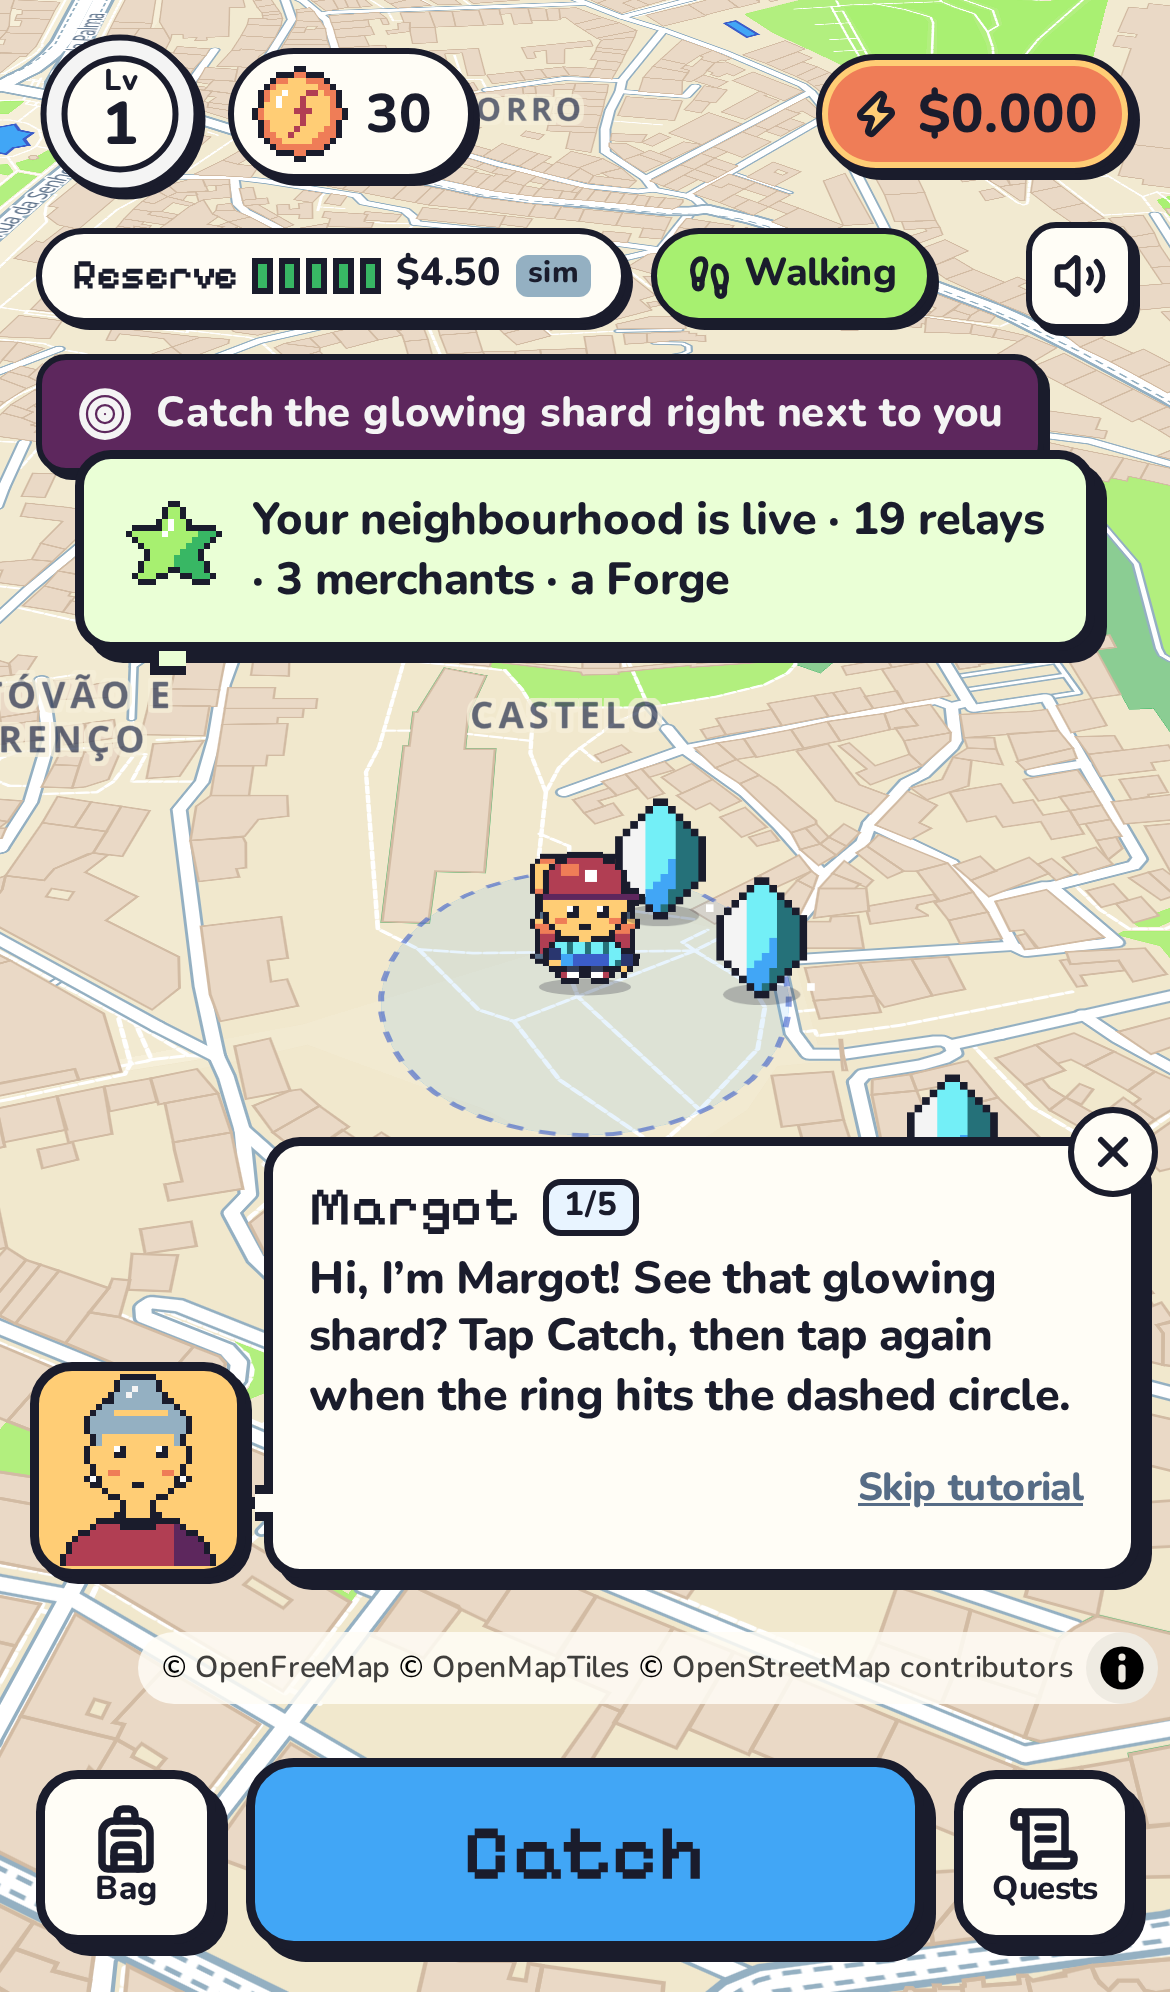
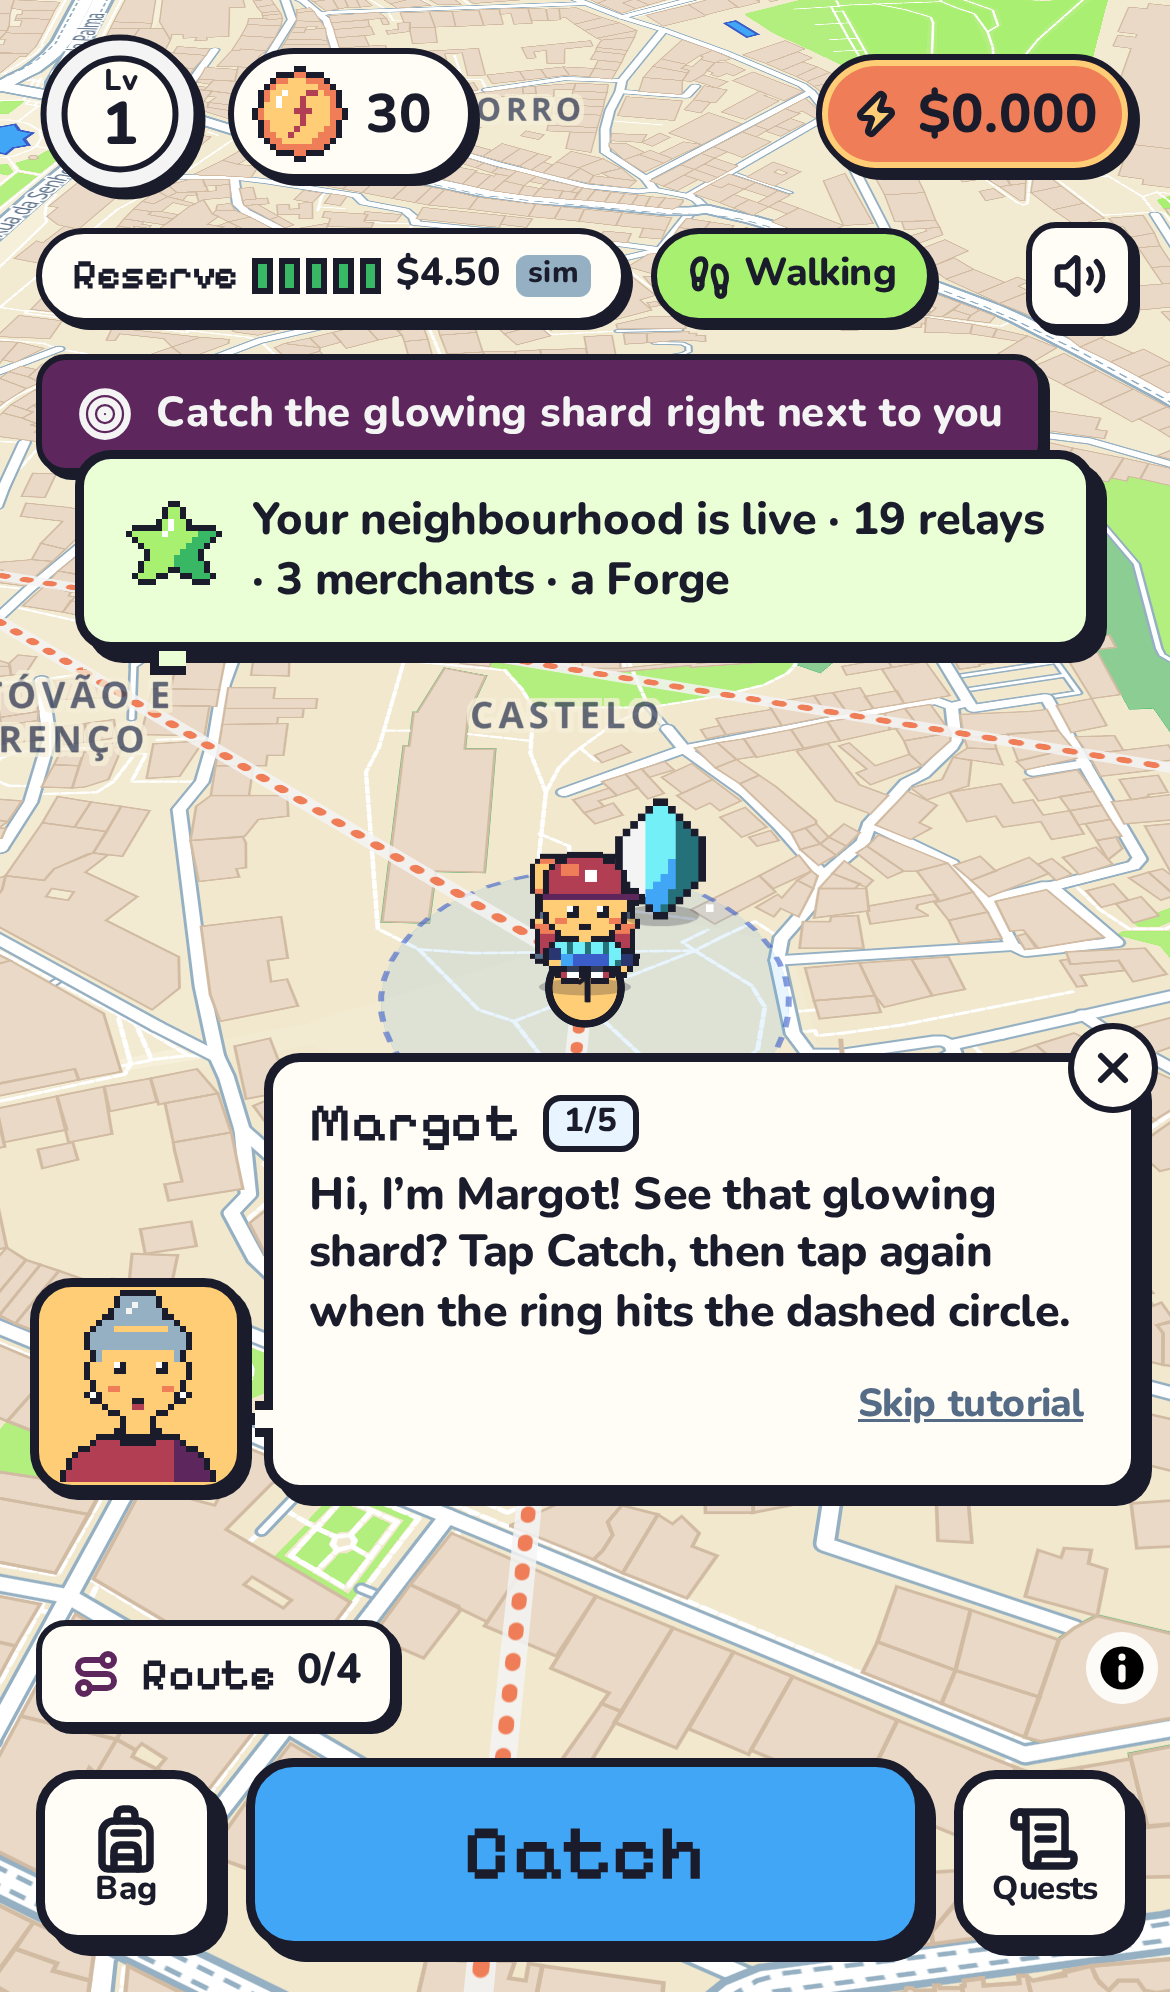
Vérification finale : 211 unitaires, e2e 28/28, captures à jour, vidéo dans le README, PROGRESS

diff --git a/Docs/PROGRESS.md b/Docs/PROGRESS.md
@@ -41,6 +41,19 @@ Mettre à jour à la fin de chaque bloc de travail. Le plus récent en haut.
   en fond tant que le quartier est frais ; une r7 en bordure de Paris compte comme « Paris » même si sa partie hors Paris est vide.
 - **Prochaine étape** : déploiement HTTPS (GPS réel), tester un vrai quartier hors Paris au téléphone.
 
+## 2026-11-07 (soir) — « Banger pass » : jouer partout, carte vivante, marchandage, juice, vidéo, soumission prête
+- **Contexte** : le propriétaire a testé (« pas mal »), veut un jeu « banger », **track games uniquement**, et n'avoir plus qu'à soumettre.
+- **Fait** (4 chantiers en parallèle + intégration + revue sécurité + playtest « juge ») :
+  jouer partout en vrai GPS (régions OSM/Overpass générées autour du joueur, repli procédural en 8 s puis remplacement par les vrais
+  lieux si la région est encore vierge) ; **Remote Scout** (pigeon, batterie serveur) qui remplace Demo Walk et explique la marche réelle ;
+  carte vivante (marcheurs, bulles des marchands, événements de ville bornés) ; **marchandage** (cartes, ±8 % max, plancher de coût) ;
+  juice (combo, haptique, sons), **Codex** 25 variantes, **Daily Route**, cartes PNG à partager ; ordinateur : cadre de téléphone +
+  QR « joue sur ton téléphone » ; 3 failles corrigées (ancrage des régions, /64 IPv6, confidentialité des marcheurs) ;
+  **vidéo de démo** 83 s (paysage + portrait, `npm run video`) ; README track games + disclosure ; `scripts/submit.ts` ; image Docker testée en prod.
+- **Vérif** : 211 tests unitaires, e2e 28/28 (deux passes), `npm run verify` vert, `check:secrets` vert, conteneur prod OK (pass juge niveau 7).
+- **Reste (humain, ~45 min, `Docs/SUBMISSION.md`)** : Railway (+ volume `/data`, variables), crédits NEAR AI réels (facultatif mais
+  recommandé ; si fait, `npm run video` re-filme avec de vrais crédits), repo public + tag, post X avec la vidéo, `node scripts/submit.ts --send`.
+
 ## 2026-11-07 — Game feel + raisons de revenir (Codex, Daily Route, cartes partageables)
 - **Fait** : passe « juice » sur la capture (combo ressenti : son qui monte, aura/flamme, secousse + confettis PERFECT,
   révélation de variante, XP qui roule, éclat → sac), vibrations par événement + réglage ; Codex de 25 variantes cosmétiques

diff --git a/README.md b/README.md
@@ -2,6 +2,8 @@
 
 ![TokenGo](docs-assets/cover.jpg)
 
+▶ **Demo video (83 s):** [`docs-assets/video/tokengo-demo.mp4`](docs-assets/video/tokengo-demo.mp4) · portrait: [`tokengo-demo-portrait.mp4`](docs-assets/video/tokengo-demo-portrait.mp4)
+
 **TokenGo is a location-based browser game where the loot is real AI compute.** Shards of Claude, GPT, DeepSeek, Gemini and Qwen
 spawn around real landmarks. AI shopkeepers buy and sell them at prices driven by local supply and demand, so the same shard is cheap
 at one café and expensive near the Louvre. Walk the spread, haggle, fill a Forge recipe, and compile it into **real NEAR AI Cloud
@@ -57,7 +59,7 @@ npm run dev            # web http://localhost:5173 + API :8787 (credits simulate
 10. `npm run verify` → tests + typecheck + build + headless e2e of the whole loop; `npm run e2e` runs all **28 flows** on a mobile viewport.
 
 Other commands: `npm run sim -- --days 7 --players 200 --scenario flood-deepseek --seed 42` (economy simulator CLI, health checks),
-`npm run shots` (screenshots), `npm run reconcile` (chain vs DB), `npm run check:secrets`.
+`npm run shots` (screenshots), `npm run video` (re-records the demo video with Playwright + ffmpeg), `npm run reconcile` (chain vs DB), `npm run check:secrets`.
 
 ## The game loop
 - **Walk (or scout).** Real GPS anywhere: outside Paris the server builds a region from OpenStreetMap around you (relays on real POIs,

diff --git a/CLAUDE.md b/CLAUDE.md
@@ -45,6 +45,9 @@ npm run e2e            # playwright
 npm run sim -- --days 7 --players 200   # simulateur d'économie (CLI)
 npm run verify         # ce que lancera le juge IA : tests + build + e2e smoke (sans secrets)
 npm run shots          # captures d'écran clés → docs-assets/
+npm run video          # vidéo de démo (Playwright + ffmpeg) → docs-assets/video/
+E2E_PORT=8790 npx playwright test --project=full   # e2e sur un autre port (suites en parallèle)
+node scripts/submit.ts # valide la soumission (var/submission.json) ; --send = envoi (HUMAIN uniquement)
 npm run reconcile      # compare chaîne et SQLite
 npm run check:secrets  # aucun secret dans le repo ni l'historique
 npm run build-world    # régénère data/world/paris.json depuis data/raw (OSM)
